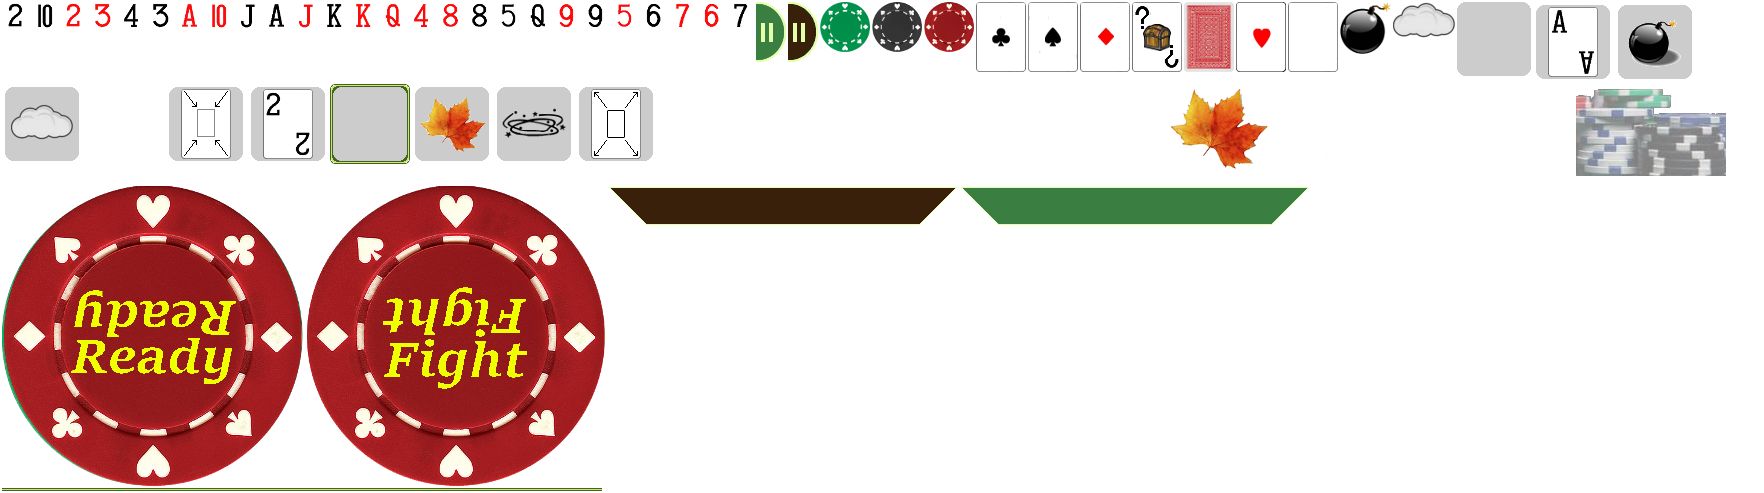
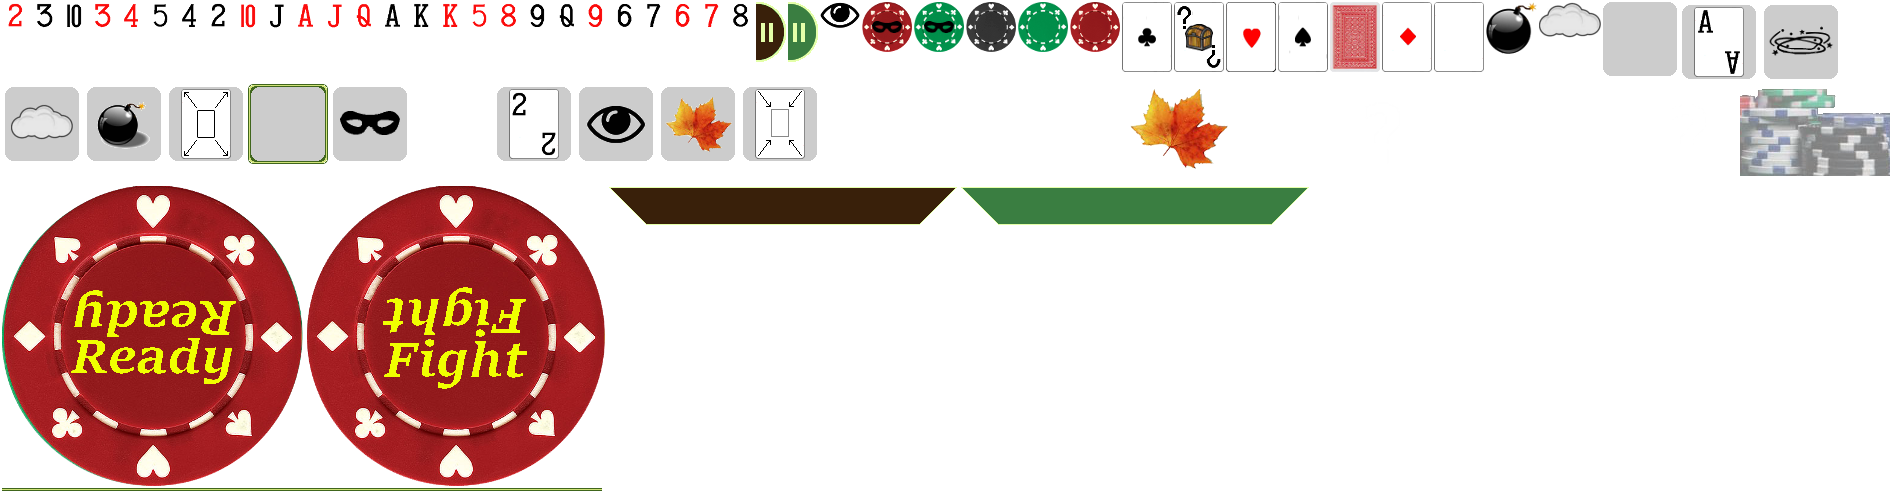
add item:spy

diff --git a/src/player.js b/src/player.js
@@ -52,6 +52,7 @@ var PlayerModel = Backbone.Model.extend({
             scaleUp: 0,
             scaleDown: 0,
             dizzy: 0,
+            spy: 0,
             needItem: true,
             item: null
         }
@@ -252,6 +253,10 @@ var PlayerModel = Backbone.Model.extend({
         return sizeScale;
     },
     maintain:function(){
+        _.each( ["sizeUp","sizeDown","scaleUp","scaleDown","dizzy","spy"],function(attr){
+            var value = this.get(attr);
+
+        },this );
         var sizeUp = this.get("sizeUp");
         if ( sizeUp > 0 ) {
             this.set("sizeUp", sizeUp - 1);
@@ -272,6 +277,20 @@ var PlayerModel = Backbone.Model.extend({
         if ( dizzy > 0 ) {
             this.set("dizzy", dizzy - 1);
         }
+        var spy = this.get("spy");
+        if ( spy > 0 ) {
+            this.set("spy", spy - 1);
+        }
+    },
+    cleanStatus:function(){
+        this.set({
+            sizeUp: 0,
+            sizeDown: 0,
+            scaleUp: 0,
+            scaleDown: 0,
+            dizzy: 0,
+            spy: 0
+        })
     }
 });
 
@@ -414,16 +433,46 @@ var PlayerSprite = cc.Sprite.extend({
     initEvent:function(){
         this.model.on("change:hands",this.onHandChange, this);
         this.model.on("change:money",this.onMoneyChange, this);
+        this.model.on("change:spy",this.onSpyChange,this);
     },
     closeEvent:function(){
         this.model.off("change:hands",this.onHandChange);
         this.model.off("change:money",this.onMoneyChange);
+        this.model.off("change:spy",this.onSpyChange);
     },
     renderMoney:function(){
         this.moneyLabel.setString(this.model.get("money"));
     },
     onMoneyChange:function(){
         this.renderMoney();
+    },
+    onSpyChange:function(){
+        var prev = this.model.previous("spy");
+        var current = this.model.get("spy");
+        if ( !prev && current ) {
+            this.showHand = true;
+            this.forceShowHand();
+            this.eyeSprite = new cc.Sprite(cc.spriteFrameCache.getSpriteFrame("eye.png"));
+            var y;
+            var rotation;
+            if ( this.model.get("position") == PLAYER_POSITION_DOWN ) {
+                y = dimens.player1Y;
+                rotation = 0;
+            } else {
+                y = dimens.player2Y;
+                rotation = 180;
+            }
+            this.eyeSprite.attr({
+                x: cc.winSize.width/2,
+                y: y,
+                rotation: rotation
+            })
+            this.addChild(this.eyeSprite);
+        } else if ( prev && !current ) {
+            this.hideHand();
+            this.eyeSprite.removeFromParent(true);
+            this.eyeSprite = null;
+        }
     },
     onHandChange:function(){
         var needCurve = true;
@@ -491,7 +540,7 @@ var PlayerSprite = cc.Sprite.extend({
         }
     },
     toggleHand:function(){
-        if ( gameModel.get("status") === "compare" )
+        if ( gameModel.get("status") === "compare" || this.model.get("spy") )
             return;
 
         this.showHand = !this.showHand;
@@ -513,6 +562,14 @@ var PlayerSprite = cc.Sprite.extend({
         _.each(cards,function(cardModel){
             var sprite = this.getParent().getChildByName(cardModel.cid);
             if ( !sprite.numberSprite.isVisible() ) sprite.runAction(sprite.getFlipToFrontSequence());
+        }, this);
+    },
+    hideHand:function(){
+        this.showHand = false;
+        var cards = this.model.get("hands");
+        _.each(cards,function(cardModel){
+            var sprite = this.getParent().getChildByName(cardModel.cid);
+            if ( sprite != null && sprite.numberSprite.isVisible() ) sprite.runAction(sprite.getFlipToBackSequence());
         }, this);
     },
     render:function(){

diff --git a/src/item.js b/src/item.js
@@ -127,11 +127,11 @@ var DizzyItemModel = ItemModel.extend({
             maxCoolDown: 1,
             description:"对手的牌全部旋转起来",
             showCharge: false,
-            dizzyTime: 10
+            effectTime: 10
         }
     },
     effect:function(playerSprite, opponentPlayerSprite){
-        opponentPlayerSprite.model.set("dizzy", this.get("dizzyTime"));
+        opponentPlayerSprite.model.set("dizzy", this.get("effectTime"));
         _.each( mainLayer.getChildren(), function(sprite) {
             if (sprite instanceof NormalCardSprite ) {
                 if (opponentPlayerSprite.isThisSide(sprite.y) && !sprite.alreadyTaken ){
@@ -193,6 +193,23 @@ var EnlargeItemModel = ItemModel.extend({
                 }
             }
         });
+    }
+});
+
+var SpyItemModel = ItemModel.extend({
+    defaults:function(){
+        return {
+            name:"spy",
+            displayName:"窥探",
+            maxCharge: 1,
+            maxCoolDown: 1,
+            description:"看对手的牌10秒钟",
+            showCharge: false,
+            effectTime: 10
+        }
+    },
+    effect:function(playerSprite, opponentPlayerSprite){
+        opponentPlayerSprite.model.set("spy", this.get("effectTime"));
     }
 });
 
@@ -475,5 +492,6 @@ var ITEM_MODEL_CLASS_MAP = {
     "leaf": LeafItemModel,
     "shrink":ShrinkItemModel,
     "enlarge":EnlargeItemModel,
-    "two": TwoItemModel
+    "two": TwoItemModel,
+    "spy": SpyItemModel
 }

diff --git a/src/app.js b/src/app.js
@@ -446,6 +446,8 @@ var MainLayer = cc.LayerColor.extend({
         this.winLoseLabel1.setVisible(false);
         this.winLoseLabel2.setVisible(false);
 
+        this.player1.cleanStatus();
+        this.player2.cleanStatus();
         this.player1.set("hands", []);
         this.player2.set("hands", []);
 
@@ -793,8 +795,8 @@ var GameModel = Backbone.Model.extend({
             new ItemPattern4Model()
         ];
 
-        this.itemPool = ["ace","bomb","cloud","dizzy","enlarge","leaf","shrink","two"];
-        //this.itemPool = ["bomb"];
+        this.itemPool = ["ace","bomb","cloud","dizzy","enlarge","leaf","shrink","spy", "two"];
+        //this.itemPool = ["spy"];
     },
     newDeck:function(){
         this.deck = newDeck();
